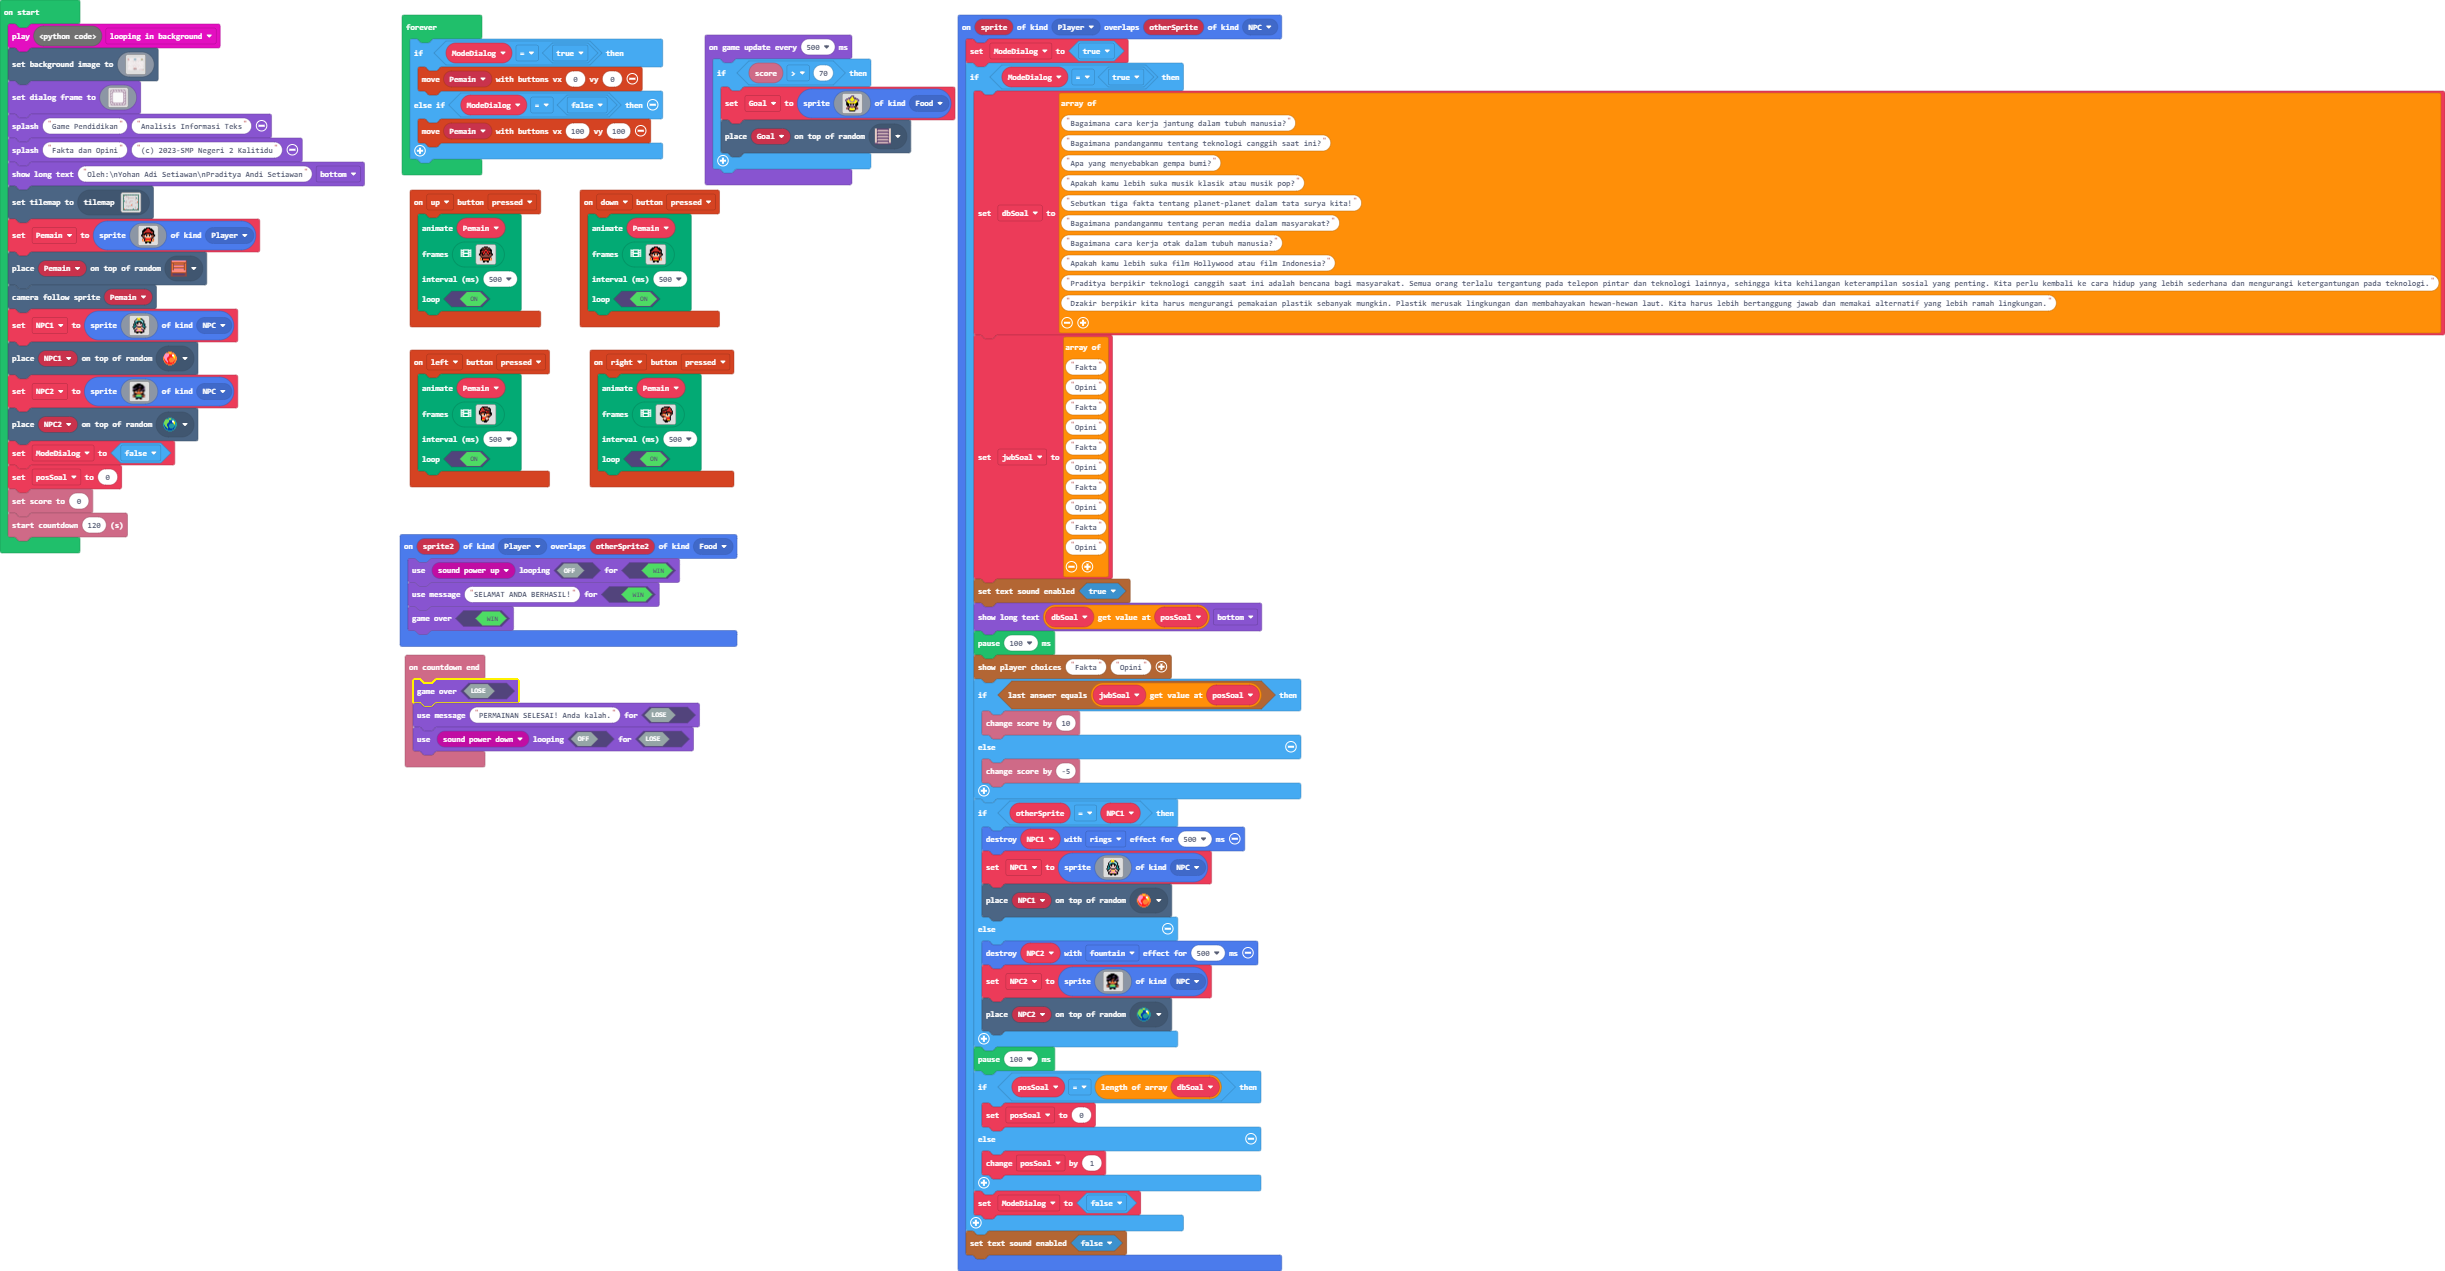
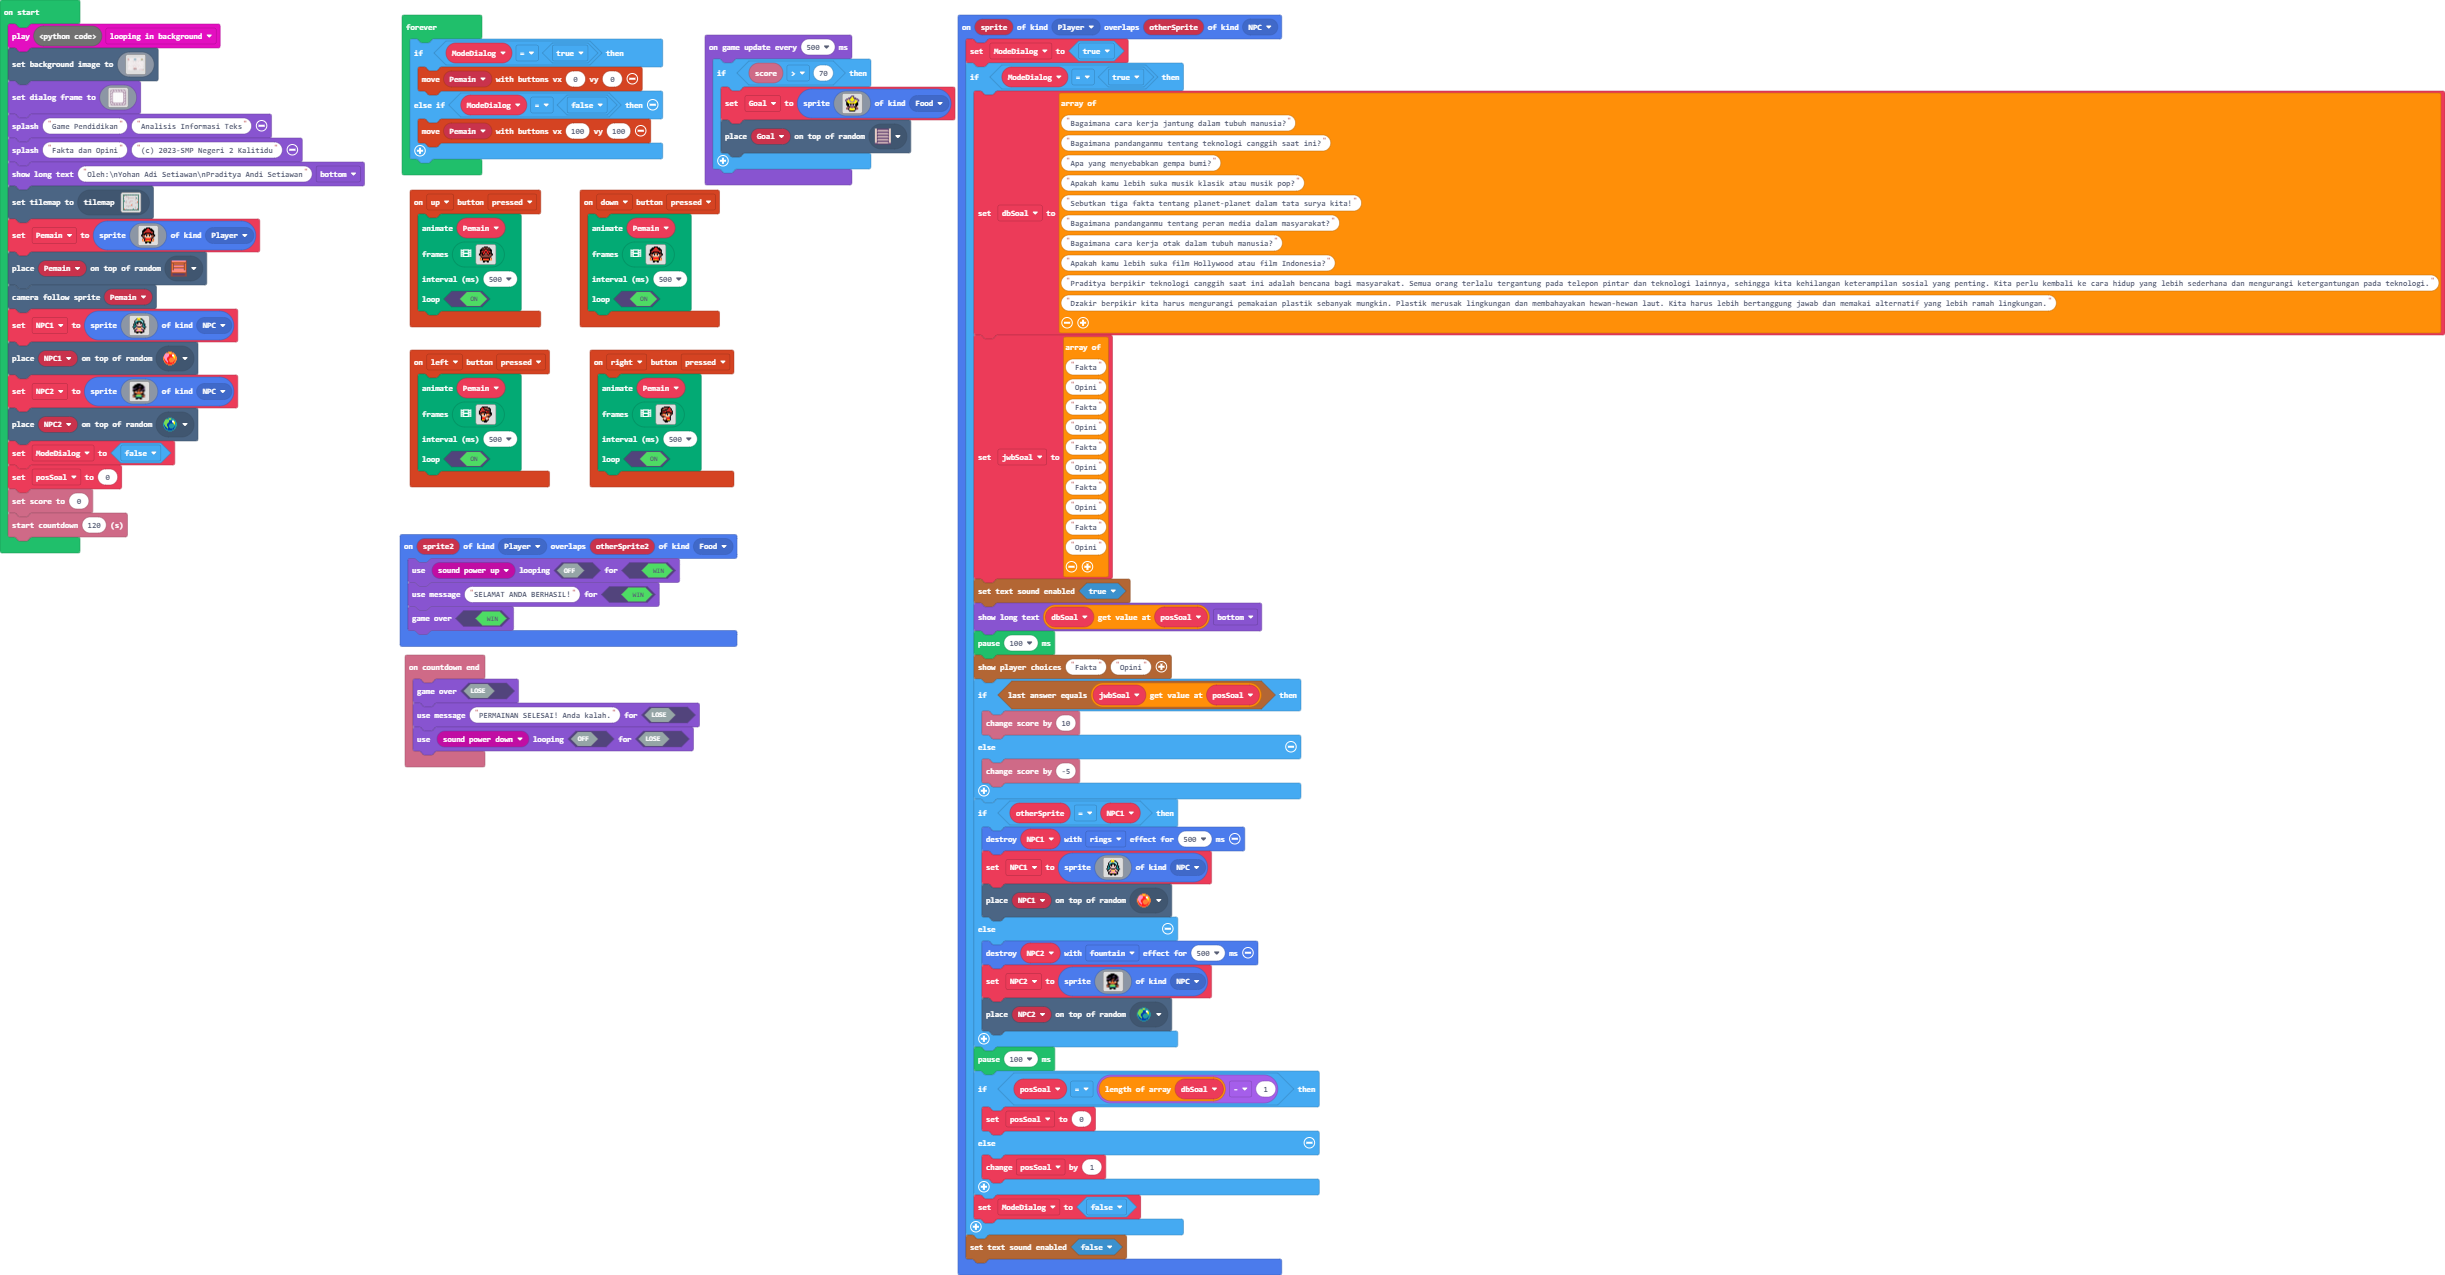
fix array database

diff --git a/main.ts b/main.ts
@@ -1,18 +1,41 @@
 namespace SpriteKind {
     export const NPC = SpriteKind.create()
 }
-
-controller.up.onEvent(ControllerButtonEvent.Pressed, function on_up_pressed() {
-    animation.runImageAnimation(Pemain, assets.animation`
-        PemainUp
-    `, 500, true)
+controller.up.onEvent(ControllerButtonEvent.Pressed, function () {
+    animation.runImageAnimation(
+    Pemain,
+    assets.animation`PemainUp`,
+    500,
+    true
+    )
 })
-sprites.onOverlap(SpriteKind.Player, SpriteKind.NPC, function on_on_overlap(sprite: Sprite, otherSprite: Sprite) {
-    
+sprites.onOverlap(SpriteKind.Player, SpriteKind.NPC, function (sprite, otherSprite) {
     ModeDialog = true
     if (ModeDialog == true) {
-        dbSoal = ["Bagaimana cara kerja jantung dalam tubuh manusia?", "Bagaimana pandanganmu tentang teknologi canggih saat ini?", "Apa yang menyebabkan gempa bumi?", "Apakah kamu lebih suka musik klasik atau musik pop?", "Sebutkan tiga fakta tentang planet-planet dalam tata surya kita!", "Bagaimana pandanganmu tentang peran media dalam masyarakat?", "Bagaimana cara kerja otak dalam tubuh manusia?", "Apakah kamu lebih suka film Hollywood atau film Indonesia?", "Praditya berpikir teknologi canggih saat ini adalah bencana bagi masyarakat. Semua orang terlalu tergantung pada telepon pintar dan teknologi lainnya, sehingga kita kehilangan keterampilan sosial yang penting. Kita perlu kembali ke cara hidup yang lebih sederhana dan mengurangi ketergantungan pada teknologi.", "Dzakir berpikir kita harus mengurangi pemakaian plastik sebanyak mungkin. Plastik merusak lingkungan dan membahayakan hewan-hewan laut. Kita harus lebih bertanggung jawab dan memakai alternatif yang lebih ramah lingkungan."]
-        jwbSoal = ["Fakta", "Opini", "Fakta", "Opini", "Fakta", "Opini", "Fakta", "Opini", "Fakta", "Opini"]
+        dbSoal = [
+        "Bagaimana cara kerja jantung dalam tubuh manusia?",
+        "Bagaimana pandanganmu tentang teknologi canggih saat ini?",
+        "Apa yang menyebabkan gempa bumi?",
+        "Apakah kamu lebih suka musik klasik atau musik pop?",
+        "Sebutkan tiga fakta tentang planet-planet dalam tata surya kita!",
+        "Bagaimana pandanganmu tentang peran media dalam masyarakat?",
+        "Bagaimana cara kerja otak dalam tubuh manusia?",
+        "Apakah kamu lebih suka film Hollywood atau film Indonesia?",
+        "Praditya berpikir teknologi canggih saat ini adalah bencana bagi masyarakat. Semua orang terlalu tergantung pada telepon pintar dan teknologi lainnya, sehingga kita kehilangan keterampilan sosial yang penting. Kita perlu kembali ke cara hidup yang lebih sederhana dan mengurangi ketergantungan pada teknologi.",
+        "Dzakir berpikir kita harus mengurangi pemakaian plastik sebanyak mungkin. Plastik merusak lingkungan dan membahayakan hewan-hewan laut. Kita harus lebih bertanggung jawab dan memakai alternatif yang lebih ramah lingkungan."
+        ]
+        jwbSoal = [
+        "Fakta",
+        "Opini",
+        "Fakta",
+        "Opini",
+        "Fakta",
+        "Opini",
+        "Fakta",
+        "Opini",
+        "Fakta",
+        "Opini"
+        ]
         story.setSoundEnabled(true)
         game.showLongText(dbSoal[posSoal], DialogLayout.Bottom)
         pause(100)
@@ -22,113 +45,97 @@ sprites.onOverlap(SpriteKind.Player, SpriteKind.NPC, function on_on_overlap(spri
         } else {
             info.changeScoreBy(-5)
         }
-        
         if (otherSprite == NPC1) {
             NPC1.destroy(effects.rings, 500)
-            NPC1 = sprites.create(assets.image`
-                Novita
-            `, SpriteKind.NPC)
+            NPC1 = sprites.create(assets.image`Novita`, SpriteKind.NPC)
             tiles.placeOnRandomTile(NPC1, sprites.dungeon.collectibleRedCrystal)
         } else {
             NPC2.destroy(effects.fountain, 500)
-            NPC2 = sprites.create(assets.image`
-                Dzakir
-            `, SpriteKind.NPC)
+            NPC2 = sprites.create(assets.image`Dzakir`, SpriteKind.NPC)
             tiles.placeOnRandomTile(NPC2, sprites.dungeon.collectibleBlueCrystal)
         }
-        
         pause(100)
-        if (posSoal == dbSoal.length) {
+        if (posSoal == dbSoal.length - 1) {
             posSoal = 0
         } else {
             posSoal += 1
         }
-        
         ModeDialog = false
     }
-    
     story.setSoundEnabled(false)
 })
-controller.left.onEvent(ControllerButtonEvent.Pressed, function on_left_pressed() {
-    animation.runImageAnimation(Pemain, assets.animation`
-        PemainLeft
-    `, 500, true)
+controller.left.onEvent(ControllerButtonEvent.Pressed, function () {
+    animation.runImageAnimation(
+    Pemain,
+    assets.animation`PemainLeft`,
+    500,
+    true
+    )
 })
-info.onCountdownEnd(function on_countdown_end() {
+info.onCountdownEnd(function () {
     game.gameOver(false)
     game.setGameOverMessage(false, "PERMAINAN SELESAI! Anda kalah.")
     game.setGameOverPlayable(false, music.melodyPlayable(music.powerDown), false)
 })
-controller.right.onEvent(ControllerButtonEvent.Pressed, function on_right_pressed() {
-    animation.runImageAnimation(Pemain, assets.animation`
-        PemainRight
-    `, 500, true)
+controller.right.onEvent(ControllerButtonEvent.Pressed, function () {
+    animation.runImageAnimation(
+    Pemain,
+    assets.animation`PemainRight`,
+    500,
+    true
+    )
 })
-controller.down.onEvent(ControllerButtonEvent.Pressed, function on_down_pressed() {
-    animation.runImageAnimation(Pemain, assets.animation`
-        PemainDown
-    `, 500, true)
+controller.down.onEvent(ControllerButtonEvent.Pressed, function () {
+    animation.runImageAnimation(
+    Pemain,
+    assets.animation`PemainDown`,
+    500,
+    true
+    )
 })
-sprites.onOverlap(SpriteKind.Player, SpriteKind.Food, function on_on_overlap2(sprite2: Sprite, otherSprite2: Sprite) {
+sprites.onOverlap(SpriteKind.Player, SpriteKind.Food, function (sprite2, otherSprite2) {
     game.setGameOverPlayable(true, music.melodyPlayable(music.powerUp), false)
     game.setGameOverMessage(true, "SELAMAT ANDA BERHASIL!")
     game.gameOver(true)
 })
-let Goal : Sprite = null
-let jwbSoal : string[] = []
-let dbSoal : string[] = []
+let Goal: Sprite = null
+let jwbSoal: string[] = []
+let dbSoal: string[] = []
 let posSoal = 0
 let ModeDialog = false
-let NPC2 : Sprite = null
-let NPC1 : Sprite = null
-let Pemain : Sprite = null
+let NPC2: Sprite = null
+let NPC1: Sprite = null
+let Pemain: Sprite = null
 music.play(music.createSong(hex`
[1 lines of base64/hex data omitted]
     `), music.PlaybackMode.LoopingInBackground)
-scene.setBackgroundImage(assets.image`
-    bgImage
-`)
-game.setDialogFrame(assets.image`
-    frameDialog
-`)
+scene.setBackgroundImage(assets.image`bgImage`)
+game.setDialogFrame(assets.image`frameDialog`)
 game.splash("Game Pendidikan", "Analisis Informasi Teks")
 game.splash("Fakta dan Opini", "(c) 2023-SMP Negeri 2 Kalitidu")
 game.showLongText("Oleh:\\nYohan Adi Setiawan\\nPraditya Andi Setiawan", DialogLayout.Bottom)
-tiles.setCurrentTilemap(tilemap`
-    level1
-`)
-Pemain = sprites.create(assets.image`
-    Pandi
-`, SpriteKind.Player)
+tiles.setCurrentTilemap(tilemap`level1`)
+Pemain = sprites.create(assets.image`Pandi`, SpriteKind.Player)
 tiles.placeOnRandomTile(Pemain, sprites.dungeon.stairLadder)
 scene.cameraFollowSprite(Pemain)
-NPC1 = sprites.create(assets.image`
-    Novita
-`, SpriteKind.NPC)
+NPC1 = sprites.create(assets.image`Novita`, SpriteKind.NPC)
 tiles.placeOnRandomTile(NPC1, sprites.dungeon.collectibleRedCrystal)
-NPC2 = sprites.create(assets.image`
-    Dzakir
-`, SpriteKind.NPC)
+NPC2 = sprites.create(assets.image`Dzakir`, SpriteKind.NPC)
 tiles.placeOnRandomTile(NPC2, sprites.dungeon.collectibleBlueCrystal)
 ModeDialog = false
 posSoal = 0
 info.setScore(0)
 info.startCountdown(120)
-forever(function on_forever() {
+forever(function () {
     if (ModeDialog == true) {
         controller.moveSprite(Pemain, 0, 0)
     } else if (ModeDialog == false) {
         controller.moveSprite(Pemain, 100, 100)
     }
-    
 })
-game.onUpdateInterval(500, function on_update_interval() {
-    
+game.onUpdateInterval(500, function () {
     if (info.score() > 70) {
-        Goal = sprites.create(assets.image`
-            FinalNPC
-        `, SpriteKind.Food)
+        Goal = sprites.create(assets.image`FinalNPC`, SpriteKind.Food)
         tiles.placeOnRandomTile(Goal, sprites.dungeon.stairNorth)
     }
-    
 })
